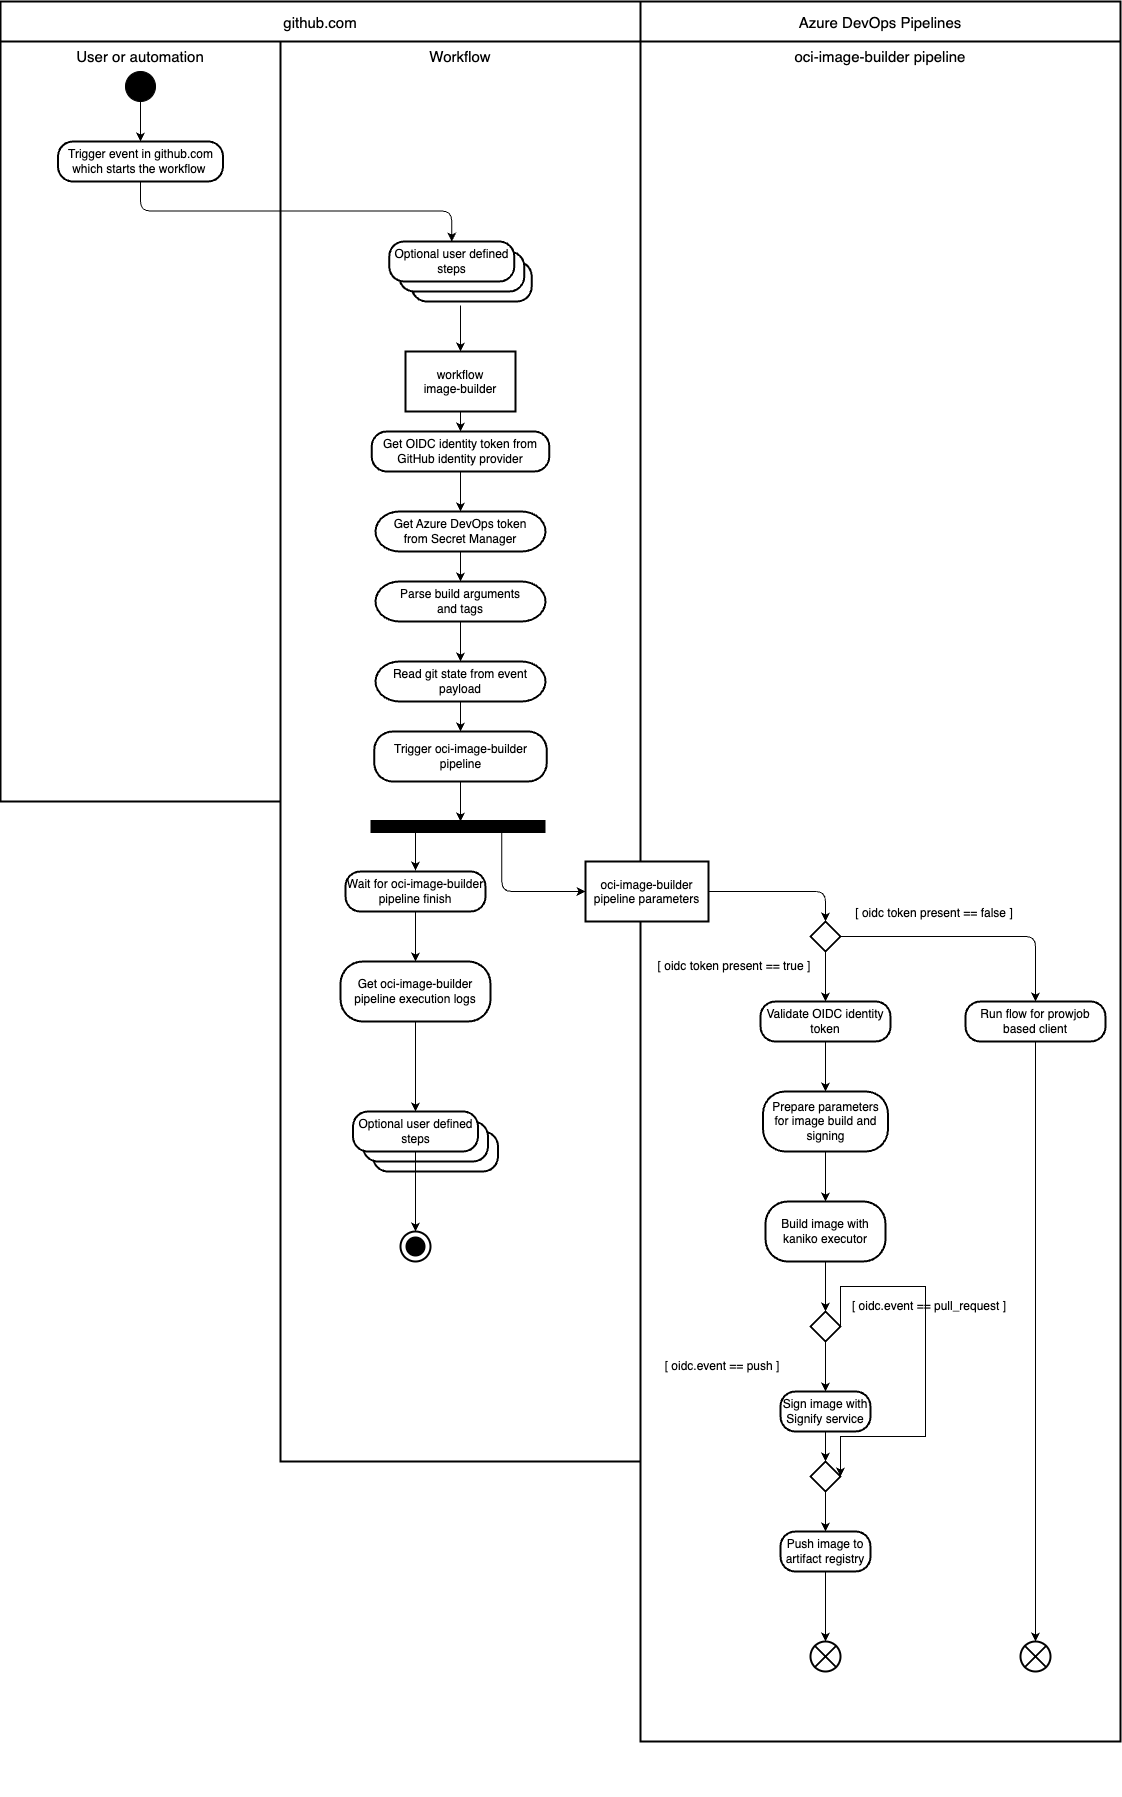
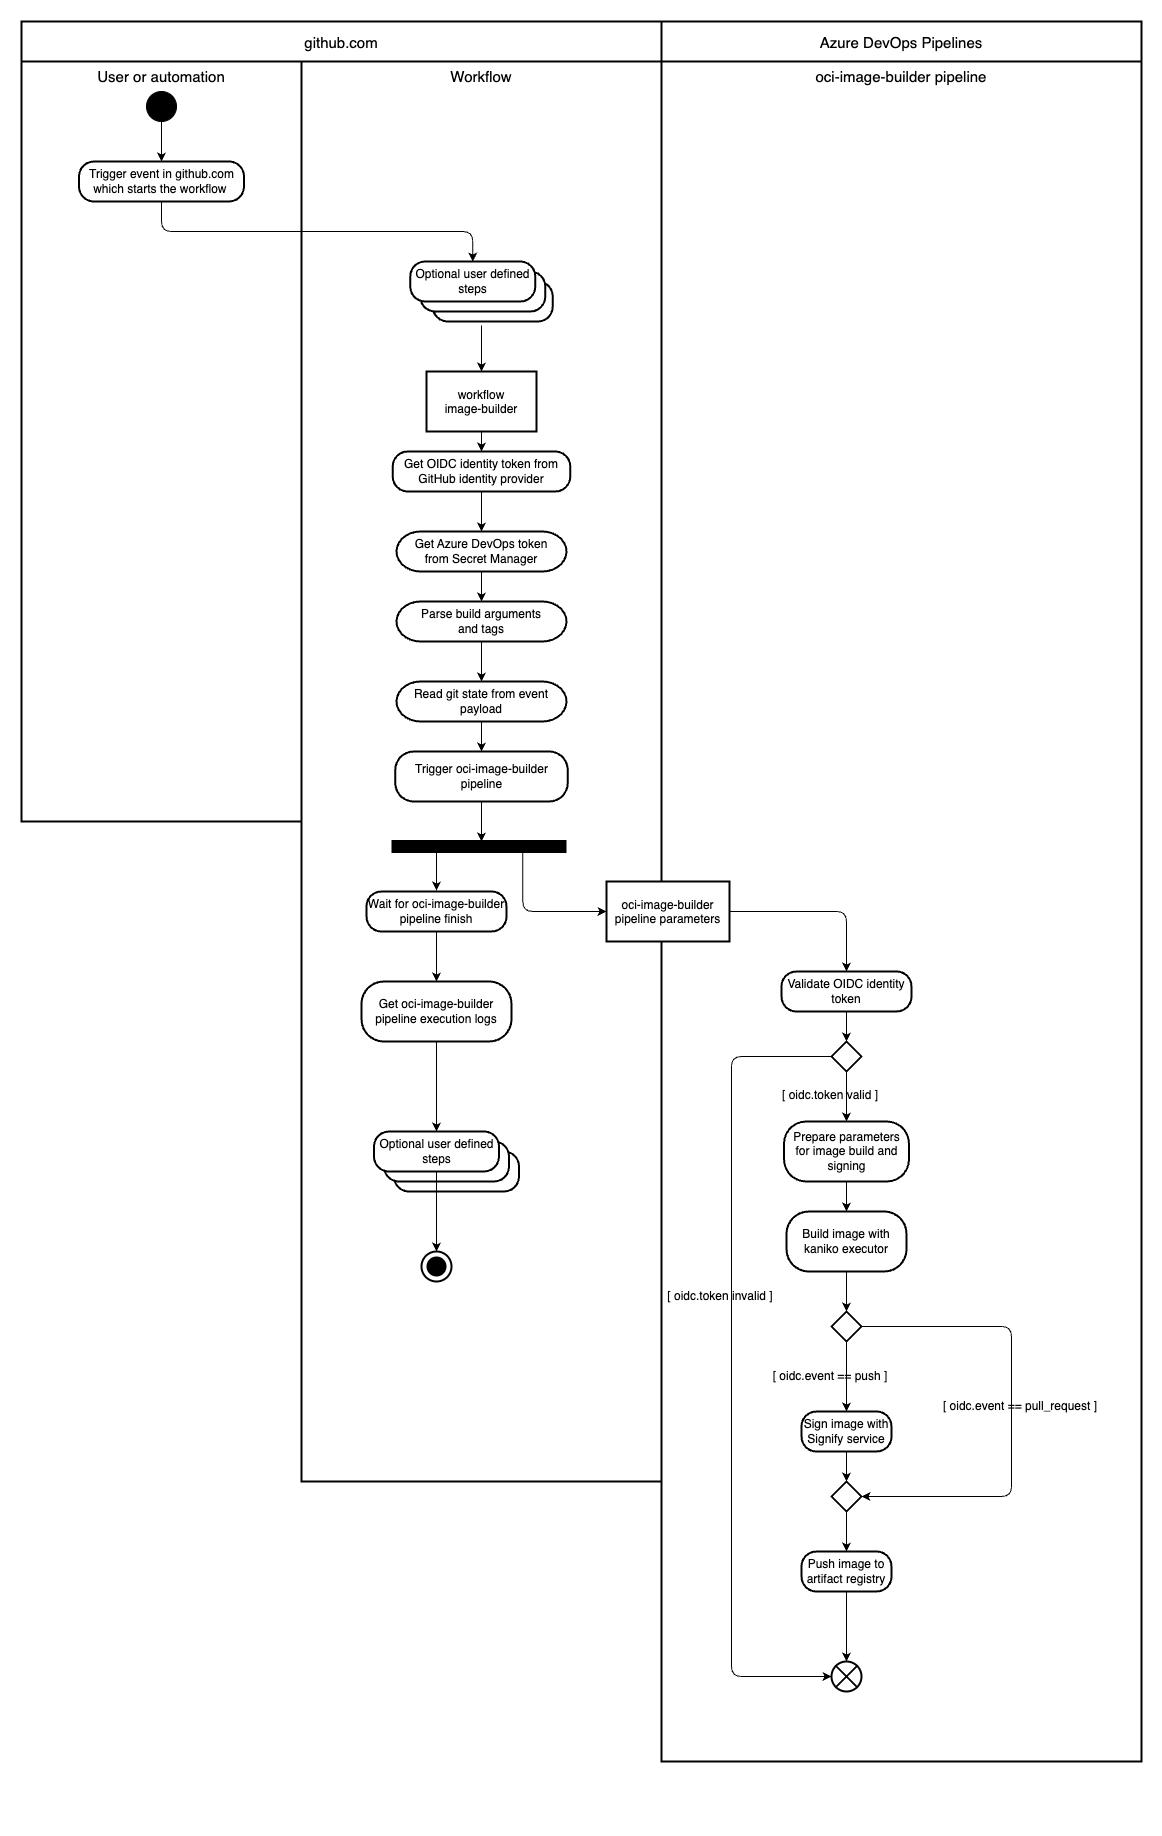
Update image-builder documentation

diff --git a/cmd/image-builder/github-workflow-integration.md b/cmd/image-builder/github-workflow-integration.md
@@ -2,7 +2,7 @@
 
 The Image Builder solution integrates with GitHub workflows and uses an Azure DevOps pipeline to run the process of building OCI
 images. It leverages a signed JWT format in which an OIDC token from GitHub's OIDC identity provider is passed. This token is used for
-secure and authorized passing of information about the workflow and the image to build to the `oci-image-builder` pipeline. The build
+authentication and authorization the reusable workflow that trigger the `oci-image-builder` pipeline. The build
 process is executed in an Azure DevOps pipeline, providing an SLC-29-compliant infrastructure for building OCI images.
 
 ## Process Flow
@@ -11,45 +11,47 @@ process is executed in an Azure DevOps pipeline, providing an SLC-29-compliant i
    OCI image. The image-builder reusable workflow is stored in the github.com/kyma-project/test-infra repository in the main branch. The
    image-builder reusable workflow defines inputs which are used to pass user-defined parameters to the `oci-image-builder` pipeline.
 
-2. **Obtaining the OIDC Token**: The image-builder reusable workflow uses GitHub action to call GitHub's OIDC identity provider, issuing an
-   OIDC token. This token is used to authenticate workflow in the ADO backend and pass information about the workflow.
+2. **Verify repository owner**: The image-builder reusable workflow verifies the repository owner of repository where the caller workflow
+   runs.
+   The repository owner must be `kyma-project`.
+   This step ensures that the image-builder reusable workflow is used only by workflows running in repositories owned by `kyma-project`.
+
+2. **Obtain the OIDC Token**: The image-builder reusable workflow uses GitHub action to call GitHub's OIDC identity provider, issuing an
+   OIDC token. The token is passed as value of `AUTHORIZATION` parameter in a ADO API call.
+   This token is used to authenticate image-builder reusable workflow in the ADO backend.
+
+3. **Get ADO PAT**: The image-builder reusable workflow uses GitHub action to get the Azure DevOps (ADO) Personal Access Token (PAT)
+   from Google Secret Manager. The PAT is used to authenticate in the ADO API.
 
 3. **Trigger the `oci-image-builder` pipeline**:
-   The image-builder reusable workflow uses Image Builder GitHub action running Image Builder client to trigger the `oci-image-builder` pipeline.
-   Image Builder client uses a Personal Access Token (PAT) to authenticate in the ADO API and trigger the `oci-image-builder`
+   The image-builder reusable workflow uses Image Builder GitHub action to collect required data and to trigger the `oci-image-builder`
    pipeline.
-   The OIDC token and additional parameters required by the `oci-image-builder` pipeline are passed as parameters to the pipeline.
-   These parameters' values are collected from data defined by
-   the user in Image Builder reusable workflow inputs, GitHub workflow context variables and GitHub OIDC identity provider.
-   The OIDC token is used to authenticate and authorize the workflow in the `oci-image-builder` pipeline.
+   Required data is collected from inputs to the Image Builder reusable workflow, defined by the user and GitHub workflow context variables.
 
-4. **Validating the OIDC Token**: The `oci-image-builder` pipeline, running in ADO, detects a call originating from the GitHub workflow
-   and
-   validates the OIDC token against GitHub's OIDC identity provider. This step ensures that the token is valid and has not been tampered
-   with.
-   Next, the pipeline validates the claims in the OIDC token to ensure that the workflow is authorized to trigger the build process.
-   Only if the pipeline was triggered by an Image Builder reusable workflow, the pipeline will proceed to the next step.
+4. **Validating the OIDC Token**: The `oci-image-builder` pipeline, running in ADO, validates the OIDC token against trusted issuer.
+   The pipeline validates the claims in the OIDC token to ensure that the workflow is authorized to trigger the build process.
+   Only if the token is valid and pipeline was triggered by trusted workload, the pipeline will proceed to the next step.
 
-5. **OCI Image build preparation**: The `oci-image-builder` pipeline uses the information from the OIDC token and pipeline parameters to
-   clone the appropriate
-   source code for the building of the OCI image. It uses the information from the OIDC token and user-defined parameters to
-   set the appropriate parameters for the image build and signing. The data from the OIDC token is used to decide whether the OCI image should
-   be signed or not.
+5. **OCI Image build preparation**: The `oci-image-builder` pipeline uses the information from pipeline parameters to clone appropriate
+   source code for the building of the OCI image.
+   It uses the information from pipeline parameters to set the appropriate parameters for the image build and signing.
 
-6. **Building the OCI Image**: Once the source code is cloned and the build parameters are set, the `oci-image-builder` pipeline proceeds to
-   build the OCI image. The build process uses a kaniko executor as a build engine.
+6. **Building the OCI Image**: The `oci-image-builder` pipeline proceeds to build the OCI image.
+   The build process uses a kaniko executor as a build engine.
 
 7. **Pushing the OCI Image**: After the OCI image is built, it is then pushed to a specified OCI registry.
+   The `oci-image-builder` pipeline pushes the OCI image to dev or prod registry, depending on the event that triggered the pipeline.
 
-8. **Signing the OCI Image**: If the build was triggered by a push event in GitHub, the `oci-image-builder` pipeline uses the `signify`
+8. **Signing the OCI Image**: If the build was triggered by a push GitHub event, the `oci-image-builder` pipeline uses the `signify`
    service to sign the OCI image.
-   This step ensures the integrity and authenticity of the OCI image.
 
-## Reusable Workflow Image Builder
+## Image Builder Reusable Workflow
 
-Image-builder reusable workflow is a GitHub workflow
-that is used to collect required data from workflow inputs and GitHub context variables,
-retrieve the OIDC token from GitHub's OIDC identity provider, and trigger the `oci-image-builder` pipeline in ADO.
+Image-builder reusable workflow is a GitHub workflow that is used to collect required data from workflow inputs and GitHub context
+variables.
+It retrieves the OIDC token from GitHubs OIDC identity provider, and ADO PAT from Google Secret Manager.
+It triggers the `oci-image-builder` pipeline in ADO
+using [Image Builder GitHub Action](https://github.com/kyma-project/test-infra/blob/main/.github/actions/image-builder/README.md).
 Because the OIDC token does not contain all the required data for the `oci-image-builder` pipeline,
 the image-builder reusable workflow collects additional data from GitHub context variables.
 The OIDC token alone does not contain enough data to clone the appropriate source code for the build process.
@@ -57,10 +59,7 @@ Using the reusable workflow
 we bundle all the steps required to collect the data and trigger the `oci-image-builder` pipeline in a controlled and secure environment.
 Using an OIDC token allows us to confirm the version and identity of the workflow that triggered the build process.
 The image-builder reusable workflow is stored in the `github.com/kyma-project/test-infra` repository on the `main` branch, and changes to
-the workflow are
-versioned
-and provided using pull requests.
-Together with CODEOWNERS file mechanism,
+the workflow are versioned and provided using pull requests. Together with CODEOWNERS file mechanism,
 this ensures that the changes to the workflow are reviewed and approved by the appropriate team members.
 This protects the workflow from unauthorized changes and ensures that the workflow is secure and reliable.
 
@@ -81,34 +80,11 @@ The OIDC token contains the following claims that can be used to identify the wo
 <!-- markdown-link-check-disable -->
 
 - **iss**: The issuer of the token. This is always https://token.actions.githubusercontent.com. <!-- markdown-link-check-enable-->
-- **iat**: The time when the token is issued.
-- **exp**: The time when the token expires.
-- **jti**: A unique identifier for the token.
-- **nbf**: The time before which the token must not be accepted for processing.
-- **kid**: The key ID of the key used to sign the token.
-- **alg**: The algorithm used to sign the token.
 - **event_name**: The name of the event that triggers the workflow run.
-- **workflow**: The name of the workflow that triggers the workflow run.
-- **workflow_ref**: The git ref associated with the workflow file.
-- **repository**: The repository where the workflow run occurs.
 - **repository_owner**: The owner of the repository where the workflow run occurs.
 - **job_workflow_ref**: For jobs using a reusable workflow, the ref path to the reusable workflow. For more information,
   see [Using OpenID Connect with reusable workflows.](https://docs.github.com/en/actions/deployment/security-hardening-your-deployments/using-openid-connect-with-reusable-workflows)
-- **job_workflow_sha**: For jobs using a reusable workflow, the SHA of the reusable workflow file.
-
-### Source Code Cloning Claims
-
-The OIDC token also contains claims that can be used to clone the appropriate version of the source code:
-
-- **repository**: The repository where the workflow run occurs.
-- **repository_owner**: The owner of the repository where the workflow run occurs.
 - **event_name**: The name of the event that triggers the workflow run.
-- **ref_type**: The type of git ref associated with the workflow run. This can be used to determine whether the ref is a branch, tag, or
-  commit.
-- **base_ref**: The base git ref associated with the workflow run. This can be used to determine the base branch for a pull request.
-
-These claims ensure that the `oci-image-builder` pipeline builds the exact version of the code that was provided in the PR or merged to the
-branch, adhering to SLC-29 compliance.
 
 ## Parameters for the `oci-image-builder` Pipeline
 
@@ -125,47 +101,16 @@ These parameters include user-defined parameters, parameters from the OIDC token
 - **BuildArgs**: The build arguments to be passed to the build.
 - **Tags**: The tags to be applied to the image.
 - **ExportTags**: Whether to export the tags.
-
-### Parameters from OIDC Token
-
-- **RepoName**: The name of the repository.
-- **RepoOwner**: The owner of the repository. Possible values include `kyma-project` and `kyma-incubator`.
-- **JobType**: The type of job. Possible values include `presubmit` and `postsubmit`.
+- **EnvFile**: The environment variables file.
 
 ### Parameters from GitHub Context Variables
 
 - **PullBaseSHA**: The base SHA of the pull request.
 - **PullPullSHA**: The SHA of the pull request.
 - **PullNumber**: The number of the pull request.
-
-## ProwJob Validation in Image Builder
-
-In the scenario where the `oci-image-builder` pipeline is triggered from a ProwJob instead of a GitHub workflow, the validation process
-differs slightly due to the absence of an OIDC token. Triggering the `oci-image-builder` pipeline from a ProwJob is considered a deprecated
-scenario and must be supported only for backward compatibility and migration purposes.
-
-### Process Flow
-
-1. **Trigger ProwJob**: The user or automation triggers a ProwJob.
-
-2. **Trigger oci-image-builder pipeline**: The ProwJob running Image builder client calls ADO API to trigger the `oci-image-builder` pipeline.
-   The parameters required by the `oci-image-builder` pipeline are passed as parameters to the pipeline. These parameters' values are
-   collected from data defined by the user and Prow environment variables. Together with these parameters, the parameters' hash signed by Prow is
-   also passed to the pipeline as a parameter.
-
-3. **Validating the Parameters**: The `oci-image-builder` pipeline, running in Azure DevOps, detects the call originating from Prow and
-   validates the parameters against a hash signed by Prow. This step ensures that the parameters are valid and have not been tampered with.
-   The absence of an OIDC token is used to detect that the call is coming from a ProwJob.
-
-### Parameters Validation
-
-The parameters passed to the `oci-image-builder` pipeline are validated against a hash signed by Prow. This hash is computed based on the
-names and values of the parameters. The hash value is signed with a secret known to the `Prow` and the `oci-image-buidler` pipeline only.
-The `oci-image-builder` pipeline verifies this hash to ensure that the parameters have not been tampered with and are indeed coming from the
-ProwJob.
-
-This validation process ensures the secure and authorized passing of information about the ProwJob and the image to build. It provides a
-reliable infrastructure for the building of OCI images when the pipeline is triggered from a ProwJob.
+- **RepoName**: The name of the repository.
+- **RepoOwner**: The owner of the repository. Possible values include `kyma-project` and `kyma-incubator`.
+- **JobType**: The type of job. Possible values include `presubmit` and `postsubmit`.
 
 ## Block Diagram
 
@@ -174,6 +119,10 @@ reliable infrastructure for the building of OCI images when the pipeline is trig
 ## Activity Diagram
 
 ![image-builder-activity-diagram](documentation_assets/image-builder-activity-diagram.png)
+
+## Azure DevOps Pipeline
+
+The `oci-image-builder` pipeline
 
 ## Conclusion
 

diff --git a/cmd/image-builder/image-builder.md b/cmd/image-builder/image-builder.md
@@ -1,0 +1,160 @@
+# Image Builder
+
+Image Builder is a tool for building OCI-compliant images.
+It can build images using different backends, such as Kaniko, BuildKit, and Azure DevOps (ADO).
+It also supports signing images with a pre-defined set of signing services
+to verify that the image comes from a trusted repository and has not been altered in the meantime.
+The tool is designed to be used in ProwJobs.
+
+Key features:
+
+* Automatically provides a default tag, which is computed based on a template provided in `config.yaml`
+* Supports adding multiple tags to the image
+* Saves command outputs to separate files
+* When running in Prow's presubmit job, supports pushing images to different repositories with different tags
+* Supports pushing the same images to multiple repositories
+* Supports caching of built layers to reduce build times
+
+It builds the `buildkit-image-builder` image using the `image-builder` ADO backend.
+It uses the Dockerfile from the `cmd/image-builder/images/buildkit/Dockerfile` path and the config from the `kaniko-build-config` ConfigMap.
+Because it's a presubmit ProwJob, it does not sign the image.
+Signing images is supported only in postsubmit ProwJobs.
+
+## Configuration
+
+Image Builder is configured using a global configuration YAML file, set of environment variables, and command line flags.
+
+### Configuration YAML File
+
+`image-builder` requires a configuration YAML file. The file holds the global configuration for the tool and is maintained by the authors.
+Use the `--config` flag to provide a path to the config YAML file.
+
+For more information about available properties in the configuration file, refer to the [config.go](config.go) file.
+
+Here's an example file:
+
+```yaml
+registry: eu.gcr.io/kyma-project
+reproducible: true
+log-format: json
+cache:
+  enabled: true
+  cache-repo: eu.gcr.io/sap-kyma-neighbors-dev/cache
+  cache-run-layers: true
+```
+
+### Environment Variables
+
+Environment variables are mainly used to provide runtime values and configuration set by the CI/CD system.
+They provide details about the context in which the tool is running.
+
+Here is the list of environment variables used by Image Builder:
+
+- **REPO_NAME**: The name of the repository with source code to build an image from.
+- **REPO_OWNER**: The owner of the repository with source code.
+- **JOB_TYPE**: The type of job. This can be either `presubmit` or `postsubmit`. `presubmit` represents a pull request (PR) job,
+  and `postsubmit`
+  represents a push job.
+- **PULL_NUMBER**: The number of the PR.
+- **PULL_BASE_SHA**: The base SHA of the PR or push commit SHA.
+- **PULL_PULL_SHA**: The PR head SHA of the PR.
+- **ADO_PAT**: The Azure DevOps Personal Access Token. It's used in the `buildInADO` function to authenticate with the ADO API.
+- **USE_BUILDKIT**: Determines whether to use BuildKit for building the image. A `buildkit-image-builder` image has this variable set
+  to `true` by default.
+- **CI**: Determines whether the image builder runs in CI mode.
+
+### Command Line Flags
+
+Command line flags are the main way for developers to configure the tool and provide needed values for the build process.
+Check the list and description of the available flags in
+the [main.go](https://github.com/kyma-project/test-infra/blob/df945b96654d60f82b9738cd98129191c5e753c8/cmd/image-builder/main.go#L668) file.
+
+## Image Signing
+
+Image Builder supports signing the images with a pre-defined set of signing services.
+Image signing allows verification that the image comes from a trusted repository and has not been altered in the meantime.
+You can enable every supported signing service on repository and global levels.
+
+See the following example of sign services configuration in the `config.yaml` file:
+
+```yaml
+sign-config:
+  enabled-signers:
+    '*':
+      - default-signify
+    org/repo:
+      - repo-token-notary
+  signers:
+    - name: default-signify
+      type: notary
+      config:
+        endpoint: https://notary/sign
+        timeout: 5m
+        retry-timeout: 10s
+        secret:
+          path: /path/to/secret/file/signify.yaml
+          type: signify
+    - name: repo-token-notary
+      type: notary
+      config:
+        endpoint: https://repo-notary/sign
+        timeout: 5m
+        retry-timeout: 10s
+        secret:
+          path: /path/to/secret/file/token
+          type: token
+```
+
+All enabled signers under `'*'` are used globally. Additionally, if a repository contains another signer configuration
+in the **org/repo** key, Image Builder also uses this service to sign the image.
+If the job is running in CI (Prow), it picks up the current **org/repo** value from the default Prow variables. If binary
+is running outside of CI, the `--repo` flag must be used. Otherwise, the configuration will not be used.
+
+Currently, Image Builder contains a basic implementation of a notary signer. If you want to add a new signer, refer to
+the [`sign`](../../pkg/sign) package, and its code.
+
+### Sign-Only Mode
+
+Image Builder supports sign-only mode. To enable it, use the `--sign-only` flag.
+It signs the images provided in the `--images-to-sign` flag.
+It supports signing multiple images at once. The flag can be used multiple times.
+
+## Named Tags
+
+Image Builder supports passing the name along with the tag, using both the `-tag` option and the config for the tag template.
+You can use `-tag name=value` to pass the name for the tag.
+
+If the name is not provided, it is evaluated from the value:
+
+- if the value is a string, it is used as a name directly. For example,`-tag latest` is equal to `-tag latest=latest`
+- if the value is go-template, it will be converted to a valid name. For example, `-tag v{{ .ShortSHA }}-{{ .Date }}` is equal
+  to `-tag vShortSHA-Date=v{{ .ShortSHA }}-{{ .Date }}`
+
+### Parse-Tags-Only Mode
+
+You can use Image Builder to generate tags using pars-tags-only mode. To enable it, use the `--parse-tags-only` flag.
+It parses the tags provided in the `--tag` flag and in `config.yaml`. The generated tags are written as JSON to
+stdout.
+
+## Environment Variables File
+
+The `--env-file` specifies the path to the file with environment variables to be loaded in the build.
+
+## Azure DevOps Build Backend (ADO)
+
+The ADO backend uses Image Builder to call ADO API and trigger the `oci-image-builder` pipeline. This backend is SLC-29 compliant. It
+supports signing images with a production signify service. Images built with ADO can be pushed into Kyma Google Cloud artifacts registries.
+To build images, the ADO backend uses the `kaniko-project/executor` image.
+This backend doesn't support the `--platform` and `--variant` flags. Building images for platforms other than amd64 is not supported.
+To use this backend, you need to use Image Builder in a ProwJob. See [Quickstart Guide](#quickstart-guide) for an example ProwJob
+definition.
+
+When using the ADO backend, Image Builder is used as a client collecting values from flags and environment variables and calling ADO API.
+Image Builder triggers the `oci-image-builder` pipeline. This pipeline is responsible for processing parameters provided in a call and
+building, pushing, and signing an image.
+
+Apart from calling ADO API to trigger image build, Image Builder also supports preview mode. In preview mode,
+Image Builder does not trigger the ADO pipeline but generates a YAML file with the pipeline definition.
+Using this mode allows for the validation of the pipeline definition syntax before triggering it. To use preview mode, add
+the `--ado-preview-run=true` flag.
+To specify a path to the YAML file with the pipeline definition, use the `--ado-preview-run-yaml-path` flag.
